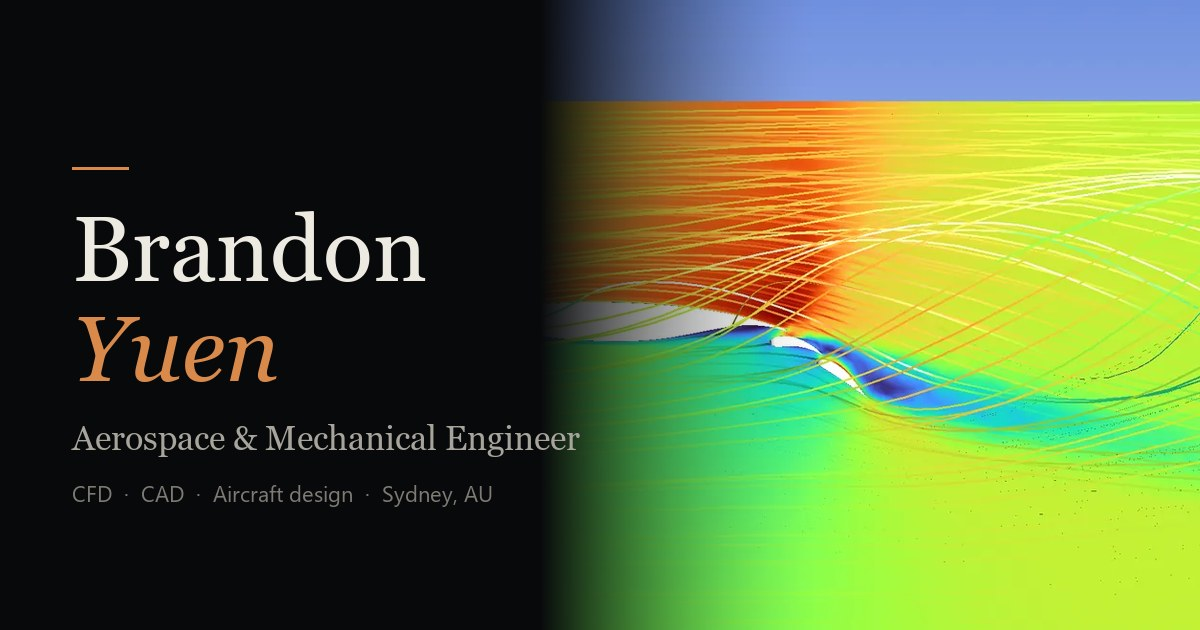
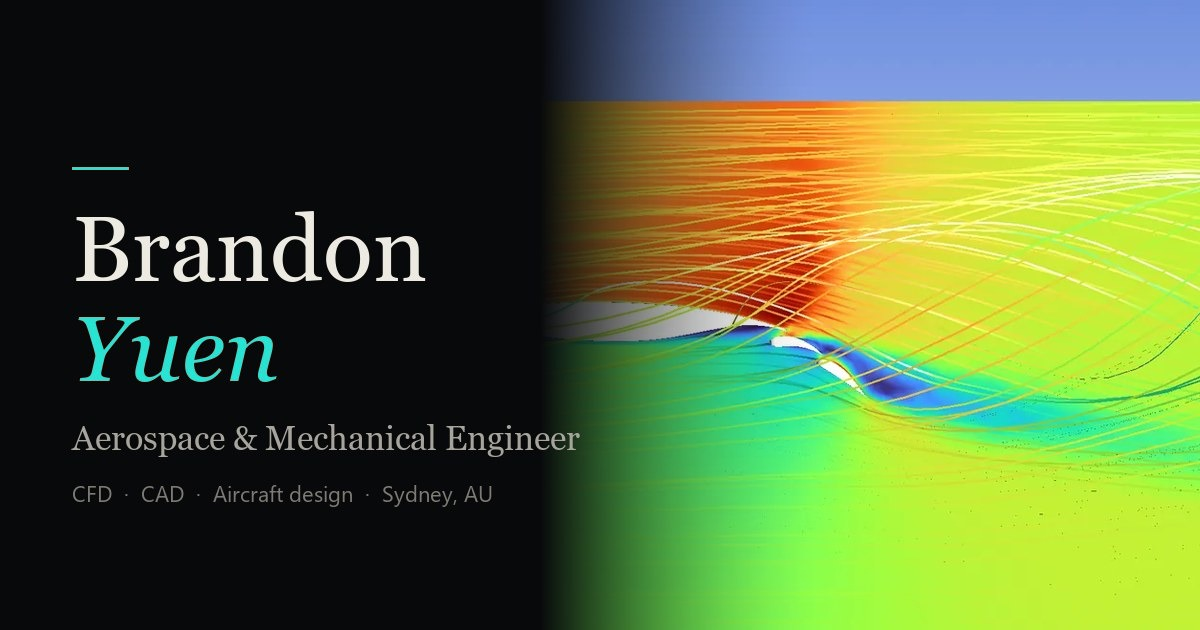
Recolour share image to teal; fix stale frame-count comment

Changed region(s): [[0.0617, 0.4825, 0.2467, 0.6032], [0.0617, 0.2413, 0.1233, 0.2714]]

diff --git a/redesign-assets/js/photography.js b/redesign-assets/js/photography.js
@@ -1,6 +1,6 @@
 /* ============================================================
    BRANDON YUEN — REDESIGN · PHOTOGRAPHY
-   The corridor: 17 frames hung down a receding 3D hall.
+   The corridor: 23 frames hung down a receding 3D hall.
    Page scroll flies the camera forward through it; a
    perspective floor + ceiling grid stream past; the whole
    space leans toward the pointer and banks as you go deeper.
